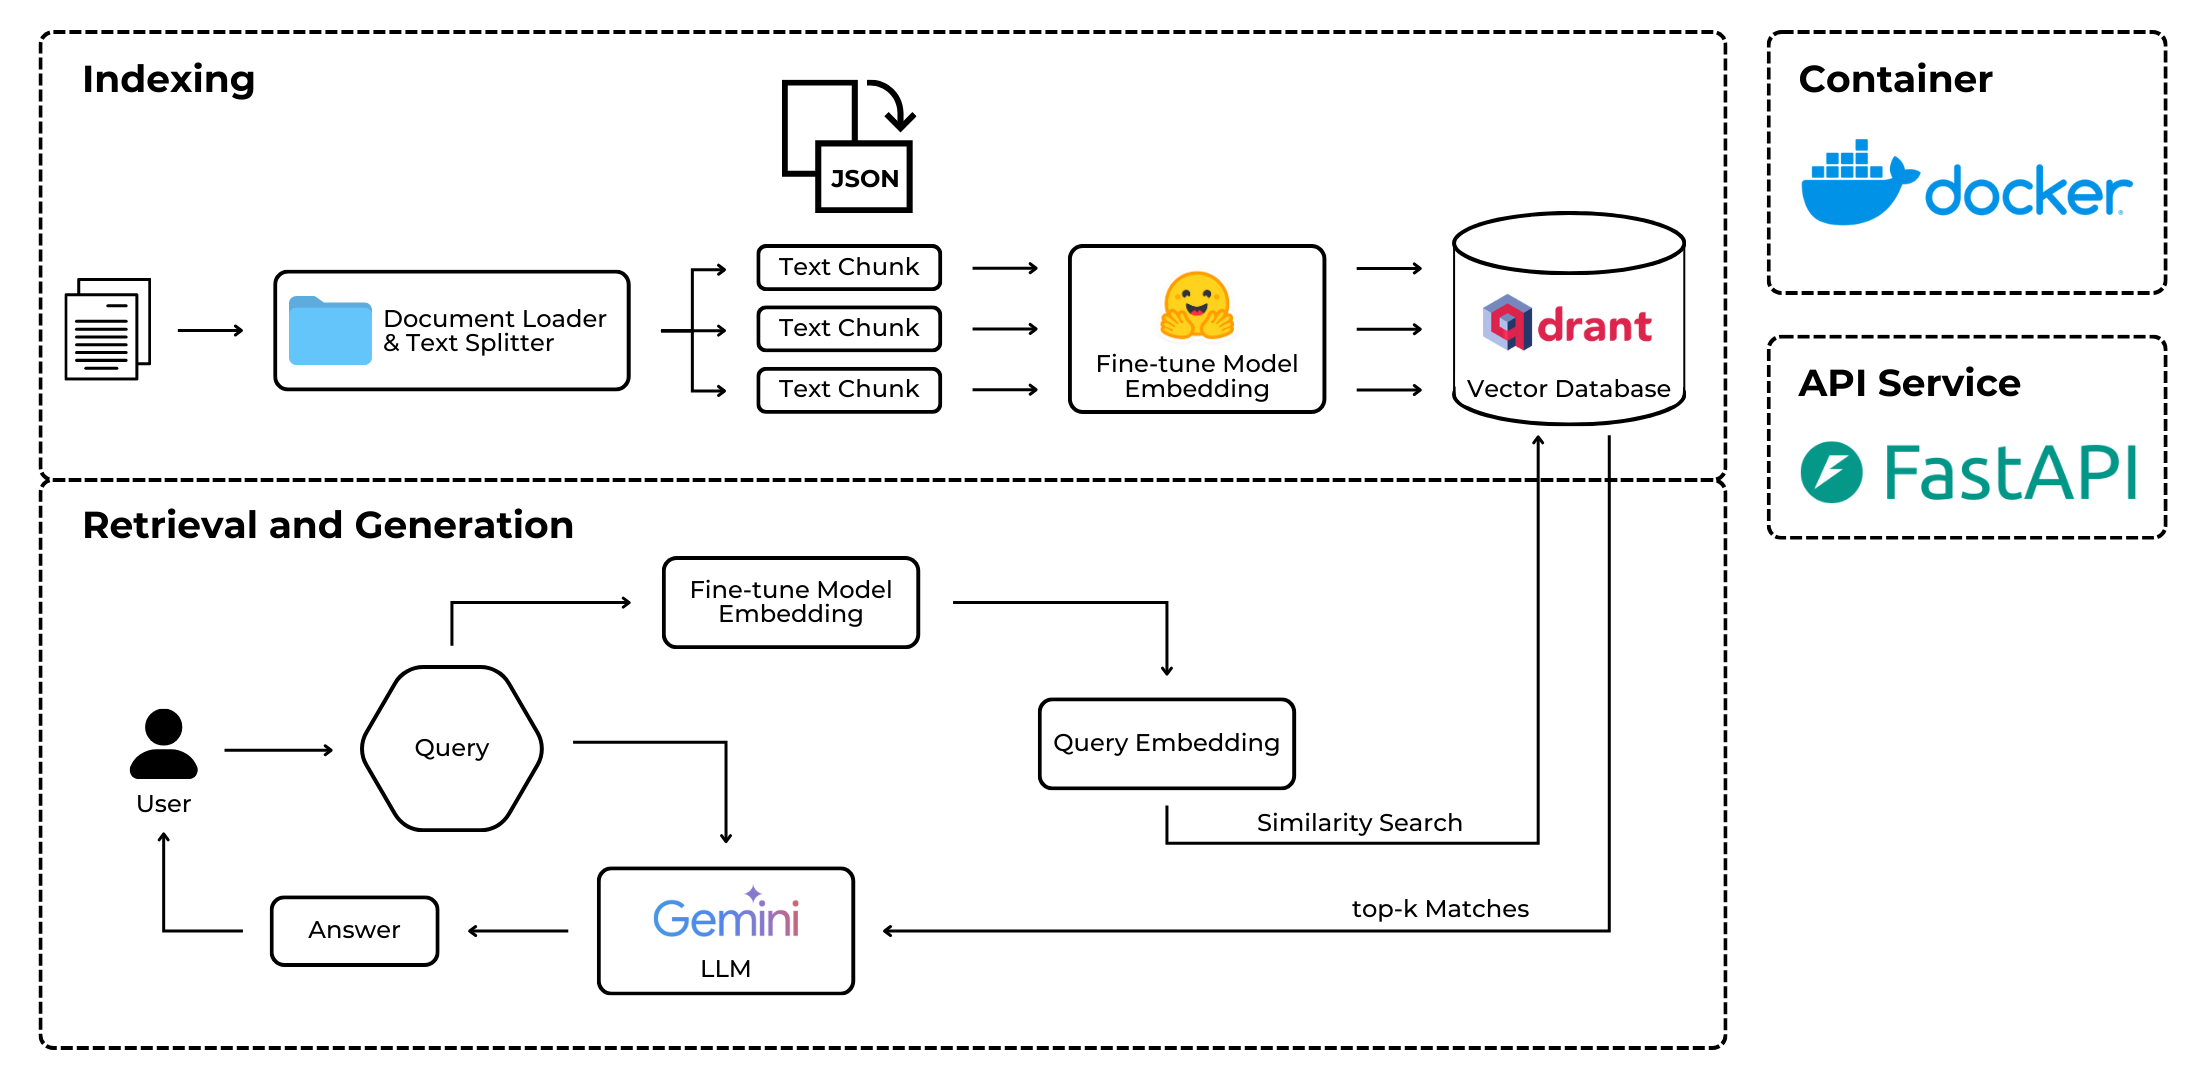
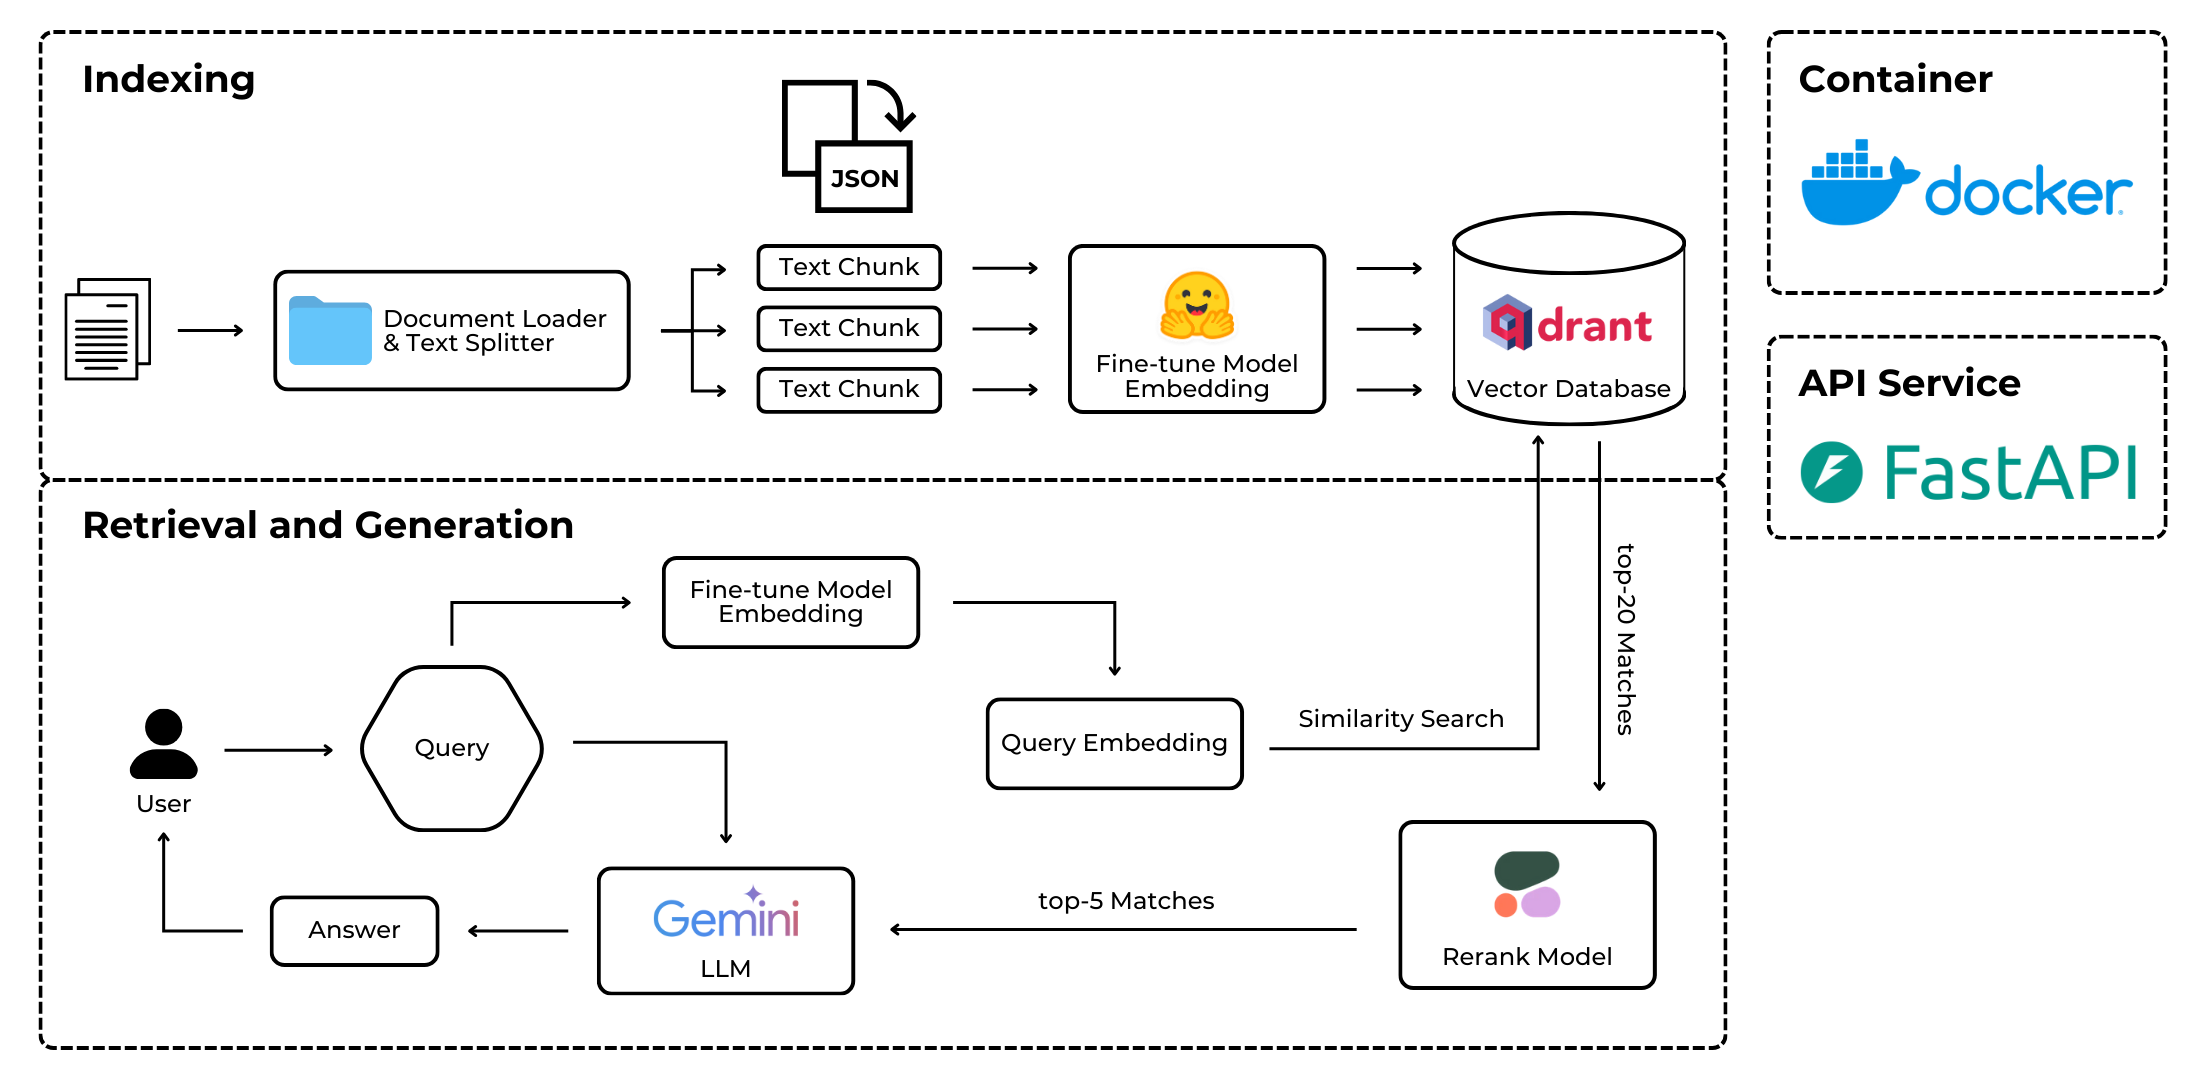
feat: update README

Changed region(s): [[0.4018, 0.4583, 0.7727, 0.9167], [0.4327, 0.6417, 0.68, 0.7333]]

diff --git a/README.md b/README.md
@@ -18,7 +18,24 @@ At the foundation of the RAG system is a carefully curated knowledge source deri
 - **Data Storage:** The structured data is embedded into dense vector representations and stored in a vector database (`Qdrant`). This allows semantic search to match user queries against the most relevant passages, ensuring accurate and efficient retrieval for the RAG pipeline.
 
 ### Model
+The ViMedBot system integrates multiple specialized models to power its RAG pipeline:
 
+#### Language Model (LLM)
+- **Model:** `gemini-2.0-flash` (Google Gemini)
+- **Purpose:** Generates natural, contextual responses based on retrieved medical documents
+- **Features:** Fast inference, multilingual support, optimized for Vietnamese medical terminology
+
+#### Embedding Model
+- **Model:** [`Dqdung205/medical_vietnamese_embedding`](https://huggingface.co/Dqdung205/medical_vietnamese_embedding)
+- **Purpose:** Converts text into dense vector representations for semantic search
+- **Specialization:** Fine-tuned on Vietnamese medical corpus for domain-specific understanding
+- **Architecture:** Based on sentence-transformers, optimized for medical terminology
+
+#### Reranker Model
+- **Model:** `rerank-multilingual-v3.0` (Cohere)
+- **Purpose:** Refines retrieved documents by reordering them based on relevance to the user query
+- **Features:** Cross-encoder architecture, multilingual support including Vietnamese
+- **Impact:** Significantly improves answer quality by prioritizing the most relevant context
 
 ### Deployment
 
